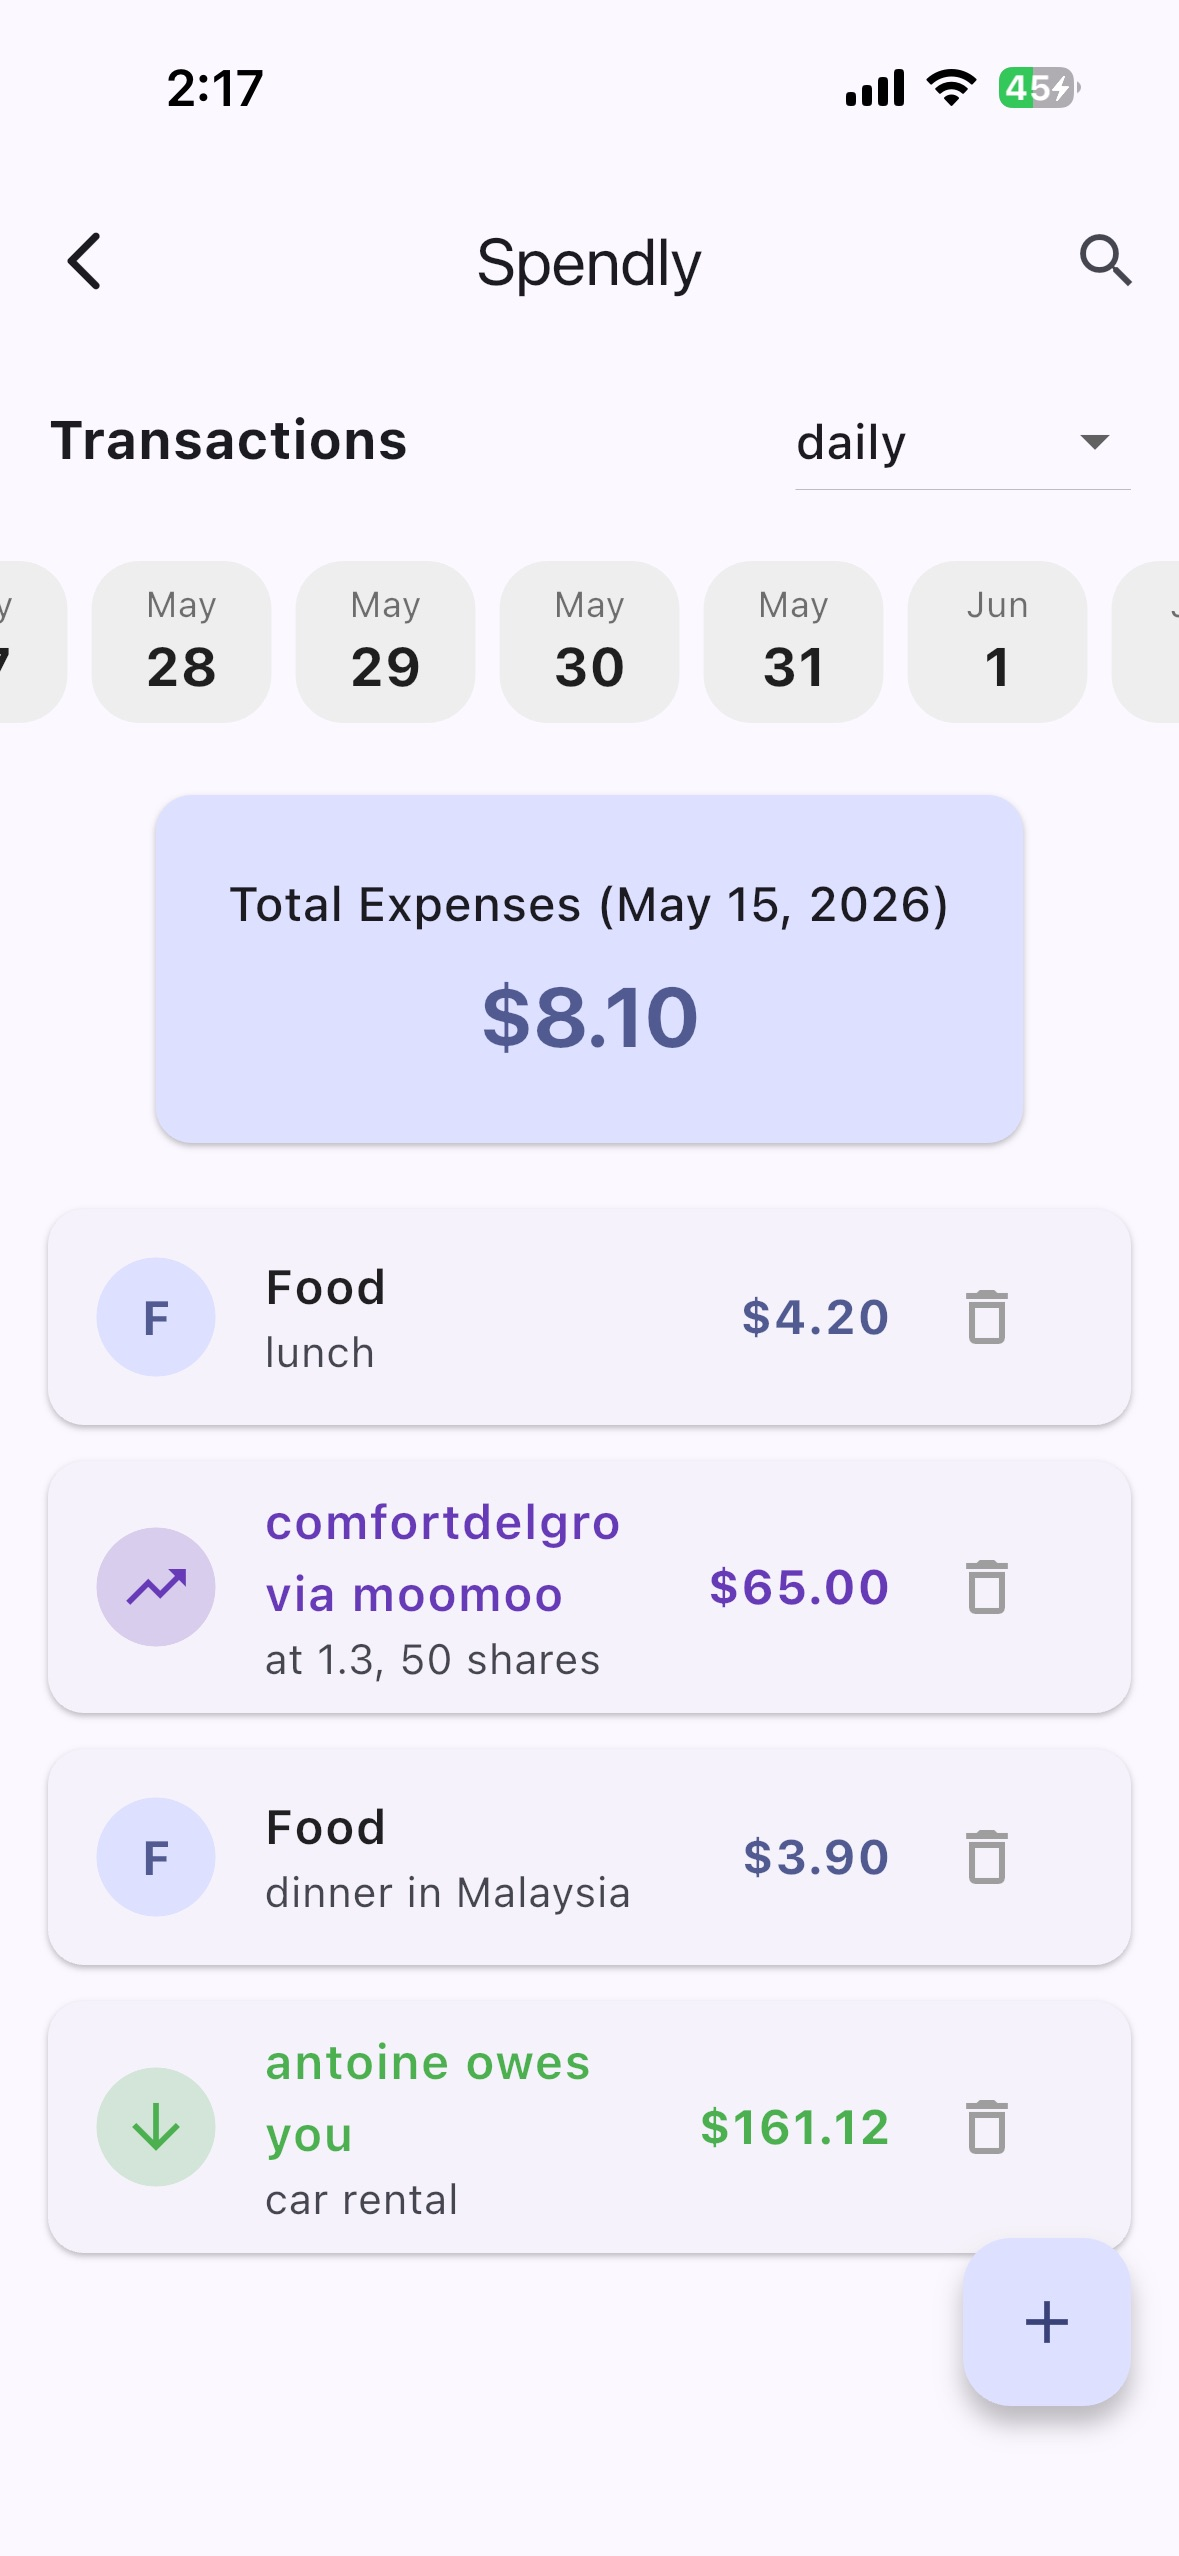
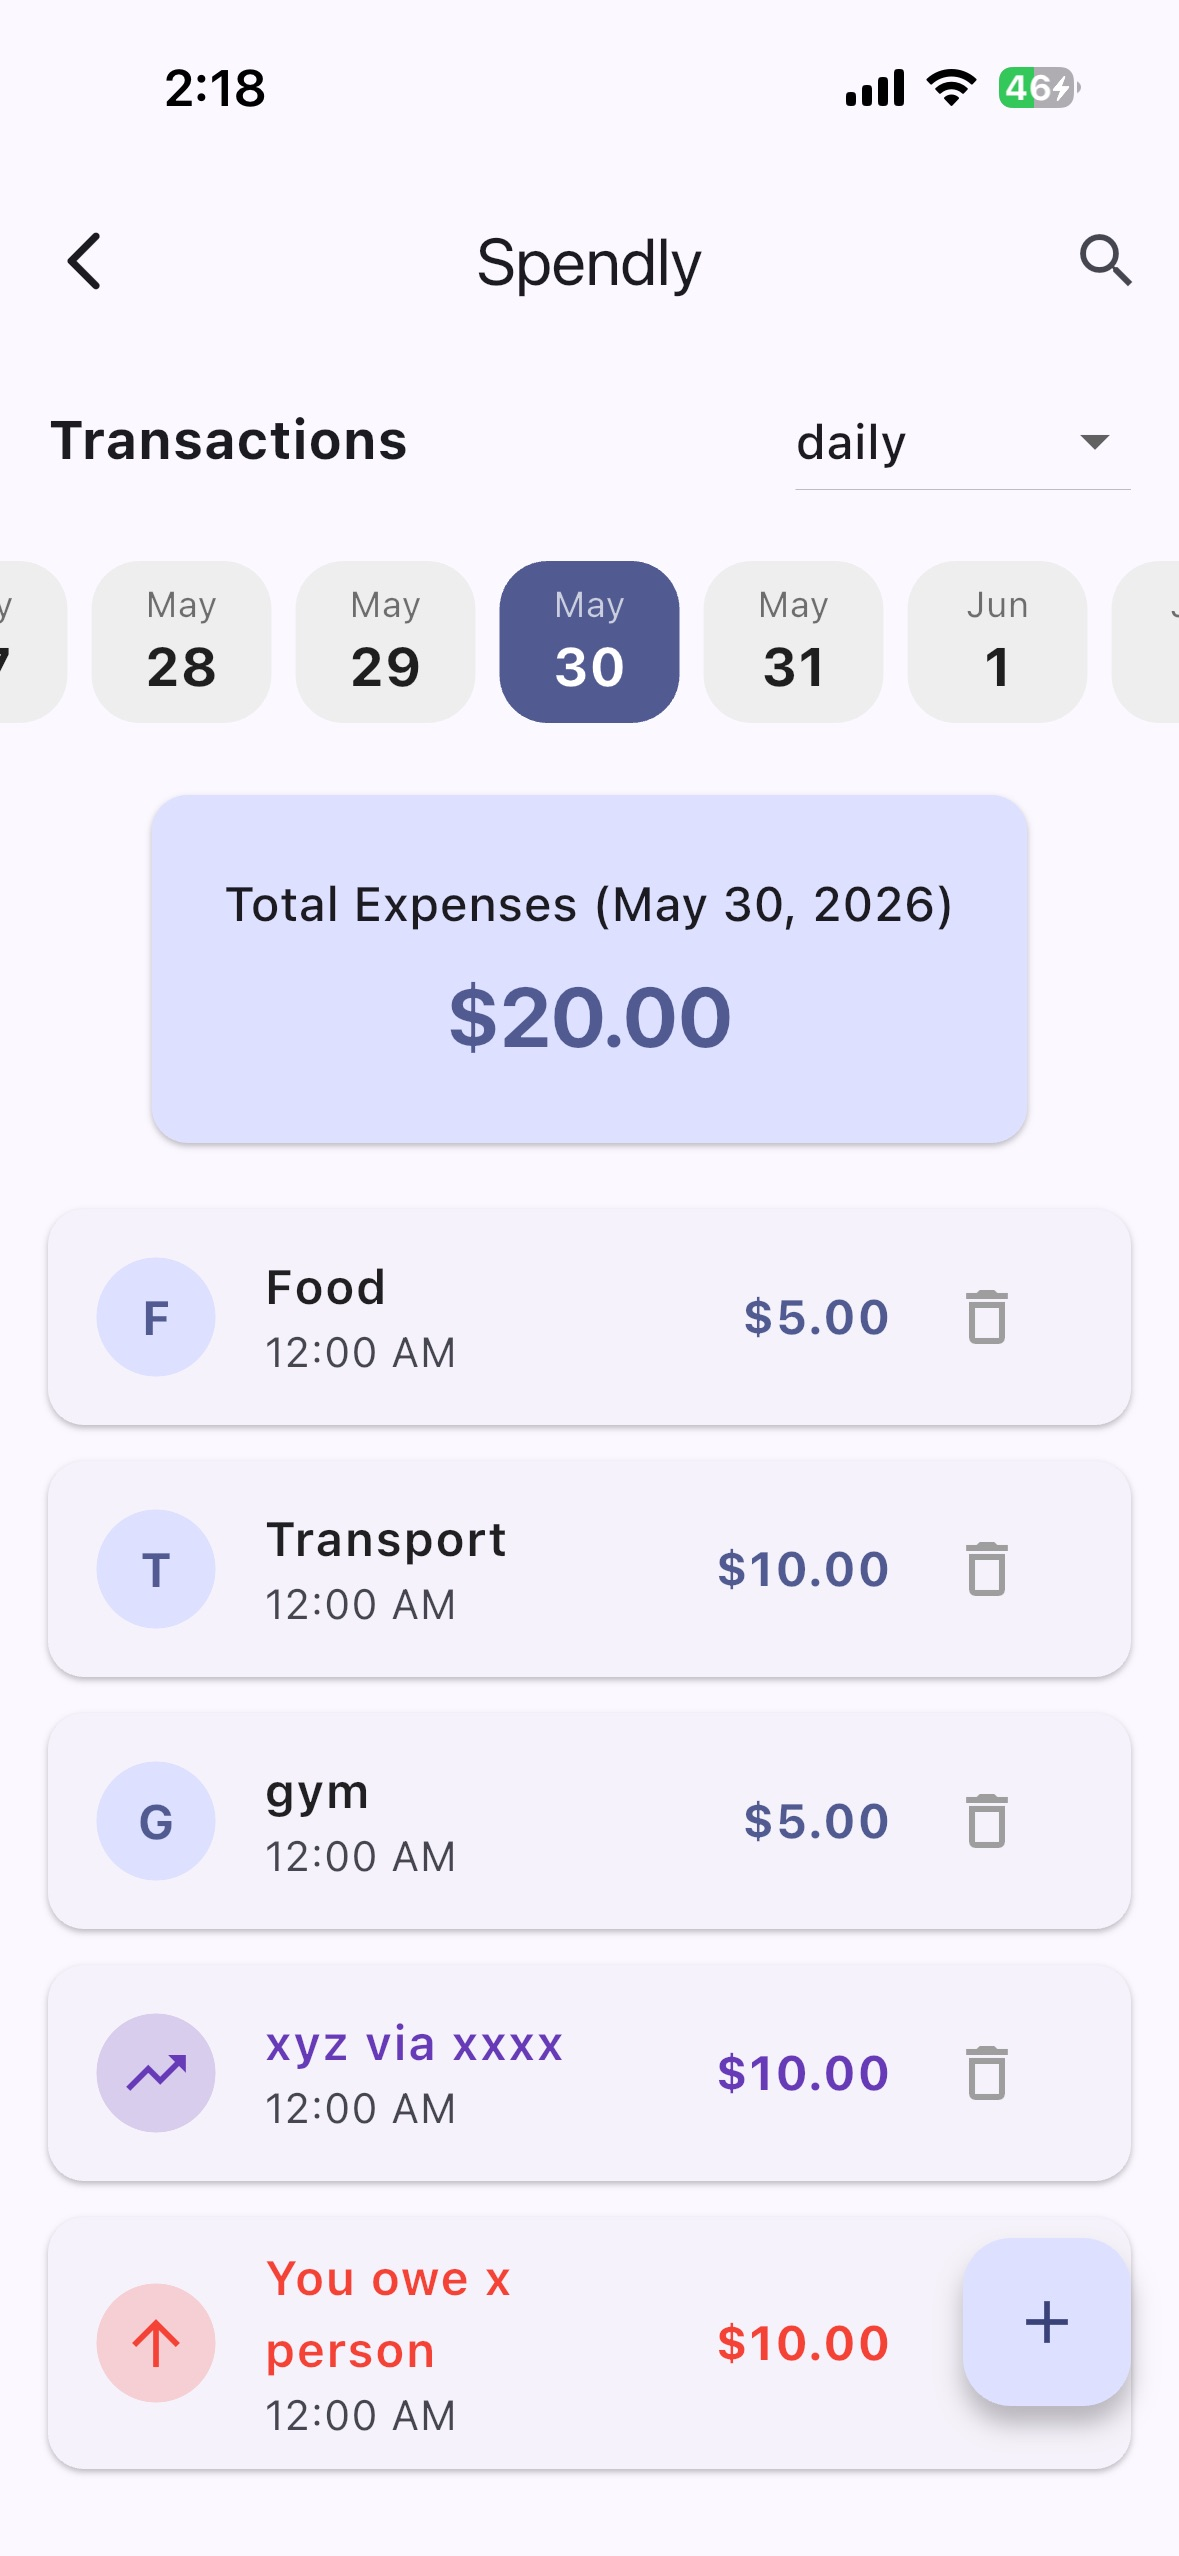
docs: update project gif and placeholder image in README

diff --git a/README.md b/README.md
@@ -1,4 +1,4 @@
-![alt text](<Spendly Final.gif>)
+![alt text](<spendly final 2.gif>)
 # Spendly
 
 I built Spendly because I wanted a simpler, smarter way to track my finances without spending hours entering data manually. It's a personal finance tracker built with Flutter that lets you manage your daily expenses, keep track of who owes you money (and who you owe), and monitor your investments all in one place. 